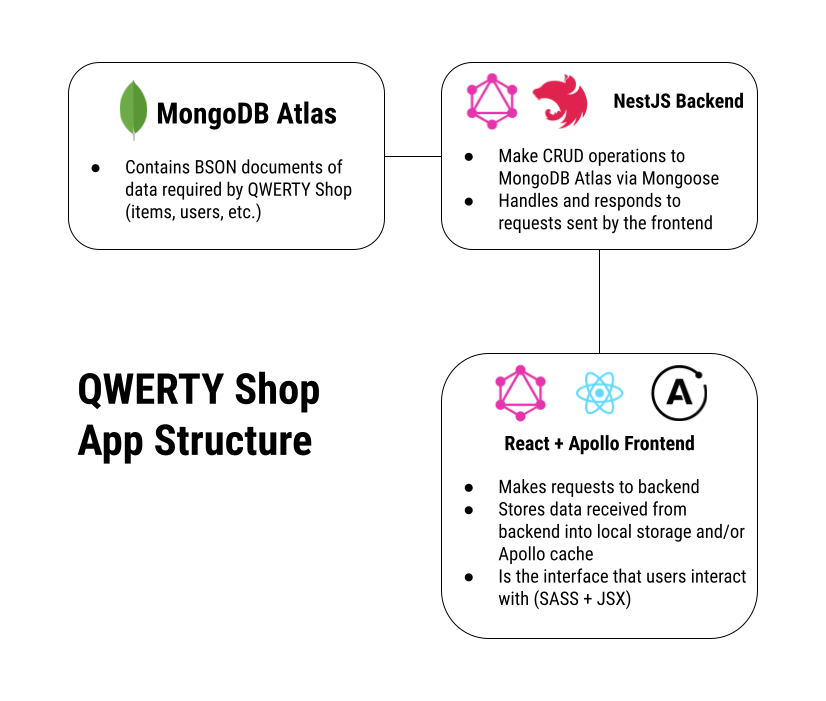
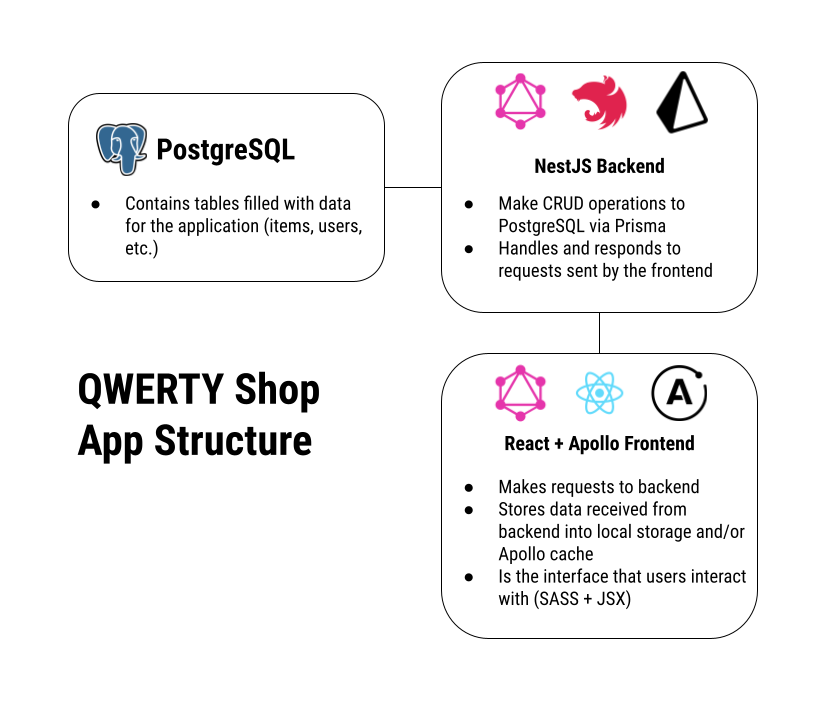
updated readme and fixed docker for backend

diff --git a/back-qwerty-shop/src/main.ts b/back-qwerty-shop/src/main.ts
@@ -6,9 +6,9 @@ async function bootstrap() {
   app.enableCors();
   await app.listen(process.env.PORT || 8080);
 
-  if (module.hot) {
-    module.hot.accept();
-    module.hot.dispose(() => app.close());
-  }
+  // if (module.hot) {
+  //   module.hot.accept();
+  //   module.hot.dispose(() => app.close());
+  // }
 }
 bootstrap();

diff --git a/back-qwerty-shop/src/app.module.ts b/back-qwerty-shop/src/app.module.ts
@@ -32,7 +32,7 @@ const {
     GraphQLModule.forRoot({
       autoSchemaFile: join(process.cwd(), 'src/schema.gql'),
       cors: {
-        origin: 'http://localhost:3000',
+        origin: 'https://qwerty-shop-app.herokuapp.com',
         credentials: true,
       },
       sortSchema: true,

diff --git a/README.md b/README.md
@@ -24,8 +24,13 @@ The frontend is the interface that users interact with.  It makes requests to th
 The backend is in charge of the logic that occurs behind the scenes.  This includes making [CRUD](https://en.wikipedia.org/wiki/Create,_read,_update_and_delete) opertaions to the database and handling any data that the user does not need to see.  
 
 #### Here is a flowchart for referrence:  
-\
+
 ![Here is a flowchart for referrence:](/readme-assets/qwerty-shop-structure.png)
+
+
+#### Database Model:  
+
+![Database Model](/readme-assets/qwerty-shop-database.png)
 
 # Technologies Used  
 QWERTY Shop was pretty balanced between the frontend and backend. Both sides were equally important for the app to truly shine. An important note to keep in mind is that these technologies were chosen with the idea of expanding my knowledge (I wanted to pick up TypeScript and GraphQL), so it was a bit out of my comfort zone. Below are the technologies used in this project along with some notes / thoughts.
@@ -150,9 +155,15 @@ There are three main reasons for my choice in using NestJS over other Node JS fr
  3. Is an opinionated framework
 
 The first two reasons on the list are solely in my own interests and pursuit of knowledge.  The third reason was to help keep myself "more organized".  Having an opinionated framework forces me to build in a specific structure that allows others that are familiar with the framework to pick up my code more easily.  In short, this allows for easier / faster development for those familiar with NestJS.  Of course this is just a portfolio project, but I wanted to keep this as a note to myself if anything.  
-### [MongoDB Atlas](https://www.mongodb.com/cloud/atlas)
-I would like to start this section off by saying that I do regret not using a SQL database like PostreSQL.  Although MongoDB does allow me to be flexible with how I store data, I do not think it was really necessary in this app.  It would have been more beneficial to use a relational database to relate users with orders, orders to items, etc.  Other than that, MongoDB Atlas was a great cloud database service for the data used in this app.  
-I will probably be going back to this at a later time to swap to PostgreSQL.  
+### ~~[MongoDB Atlas](https://www.mongodb.com/cloud/atlas)~~ Replaced by [PostgreSQL](#PostgreSQL)
+~~I would like to start this section off by saying that I do regret not using a SQL database like PostreSQL.~~  Although MongoDB does allow me to be flexible with how I store data, I do not think it was really necessary in this app.  It would have been more beneficial to use a relational database to relate users with orders, orders to items, etc.  Other than that, MongoDB Atlas was a great cloud database service for the data used in this app.  
+~~I will probably be going back to this at a later time to swap to PostgreSQL.~~  Completed.
+
+### [PostgreSQL](https://www.postgresql.org/)  
+There was not particular reason that I chose Postgres as my database.  It was what I was most familiar with.  Postgres also allows me to relate my data in an organized manner compared to storing everything into a BSON file with MongoDB.  There is a table above that displays the [structure of the database](#database-model).
+
+### [Prisma ORM](https://www.prisma.io/)  
+This was my first time using Prisma as my ORM.  Implenting this into the app was very easy in comparison to sequelize.  Creating models and GraphQL schemas, making migrations and relating tables, and seeding data all became very trivial issues when using Prisma.  A lot of those things were also generated automatically which helped with the speed of development.  Overall, I felt that Prisma is the go to choice when it comes to GraphQL and speed of development.
 
 ### [GraphQL](https://graphql.org/)
 GraphQL was very interesting to work with.  It allowed me to be flexible with the ways I was retrieving data from the backend versus having to make calls to an endpoint when using REST APIs.  My main reasons for going with GraphQL were:
@@ -168,6 +179,6 @@ My original goals for this app were as follows:
  2. Create a simple e-commerce app while learning TypeScript + GraphQL
  3. Demonstrate to myself (and possibly others) that I have improved and will continue to do so
 
-These goals have been met and I am very excited to continue working on future projects.  As of current time, the only plan for QWERTY Shop is to switch the database from MongoDB to PostgreSQL.  
+These goals have been met and I am very excited to continue working on future projects.  ~~As of current time, the only plan for QWERTY Shop is to switch the database from MongoDB to PostgreSQL.~~  Database has been swapped over and there are no future plans as of current time.
 
 Thank you for checking out my project and reading through this!
